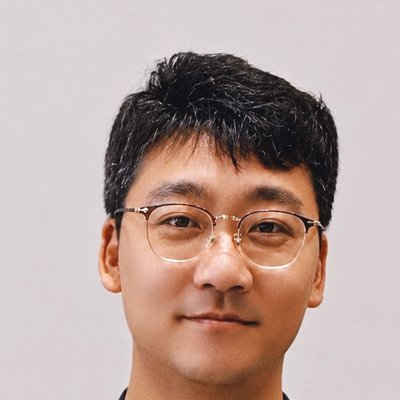
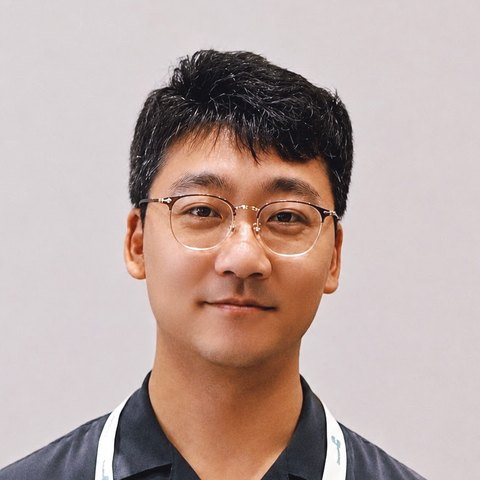
Keep navigation visible and recentre portrait
Make the masthead sticky, offset anchor scrolling so deep links are not
hidden beneath it, and keep the nav on one row on phones. Recrop the
portrait around the face, with the shoulders in frame.

diff --git a/assets/css/site.css b/assets/css/site.css
@@ -23,7 +23,7 @@
 }
 
 *, *::before, *::after { box-sizing: border-box; }
-html { -webkit-text-size-adjust: 100%; scroll-padding-top: 16px; }
+html { -webkit-text-size-adjust: 100%; scroll-padding-top: 76px; }
 body {
   margin: 0 auto;
   max-width: 880px;
@@ -49,7 +49,10 @@ section { margin: 0 0 3rem; }
 /* Masthead */
 .masthead {
   display: flex; flex-wrap: wrap; justify-content: space-between; align-items: baseline;
-  gap: 4px 24px; padding: 22px 0 14px; margin-bottom: 40px; border-bottom: 1px solid var(--line);
+  gap: 4px 24px; padding: 16px 0 10px; margin-bottom: 40px; border-bottom: 1px solid var(--line);
+  position: sticky; top: 0; z-index: 10; background: var(--paper);
+  /* Extend the background to the viewport edges without causing horizontal scroll. */
+  box-shadow: 0 0 0 100vmax var(--paper); clip-path: inset(0 -100vmax);
 }
 .wordmark { font: 600 1.15rem var(--serif); color: var(--ink); }
 .wordmark:hover { text-decoration: none; }
@@ -188,7 +191,10 @@ section { margin: 0 0 3rem; }
 
 @media (max-width: 640px) {
   body { padding: 0 16px; }
-  .masthead { margin-bottom: 28px; }
+  html { scroll-padding-top: 92px; }
+  .masthead { margin-bottom: 28px; padding: 10px 0 6px; }
+  .masthead nav { flex-wrap: nowrap; justify-content: space-between; width: 100%; gap: 10px; }
+  .masthead nav a { font-size: .88rem; }
   h1 { font-size: 1.9rem; }
   .hero { grid-template-columns: minmax(0, 1fr); gap: 20px; }
   .portrait { order: -1; }
@@ -202,6 +208,10 @@ section { margin: 0 0 3rem; }
   .timeline { grid-template-columns: minmax(0, 1fr); gap: 2px; }
   .timeline dd { margin-bottom: 14px; }
   .audio-row { grid-template-columns: minmax(0, 1fr); gap: 2px; }
+}
+@media (max-width: 350px) {
+  .masthead nav { gap: 6px; }
+  .masthead nav a { font-size: .8rem; }
 }
 @media (prefers-reduced-motion: no-preference) {
   html { scroll-behavior: smooth; }
